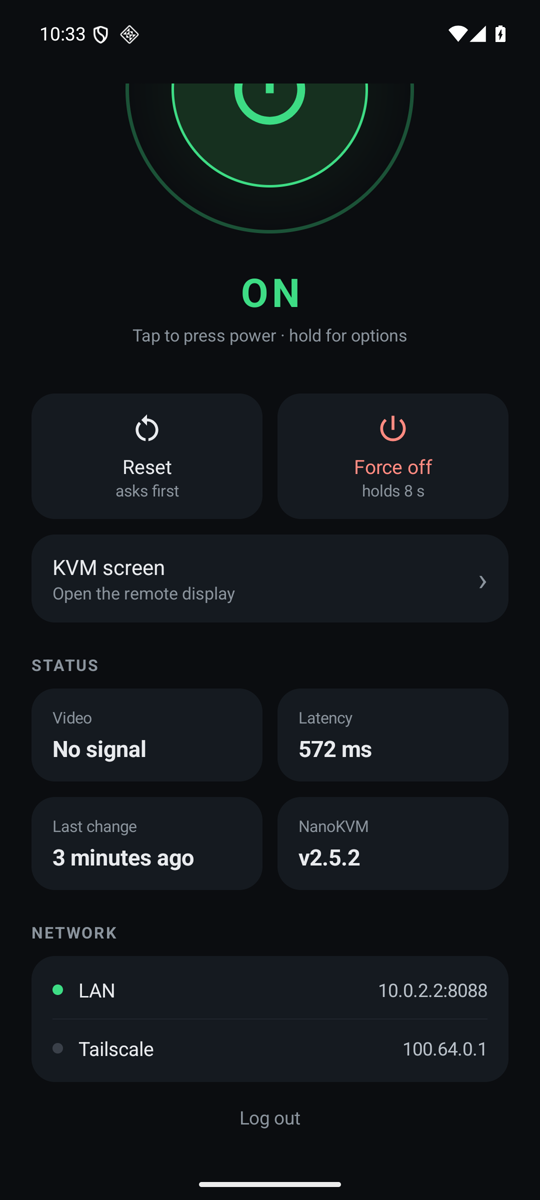
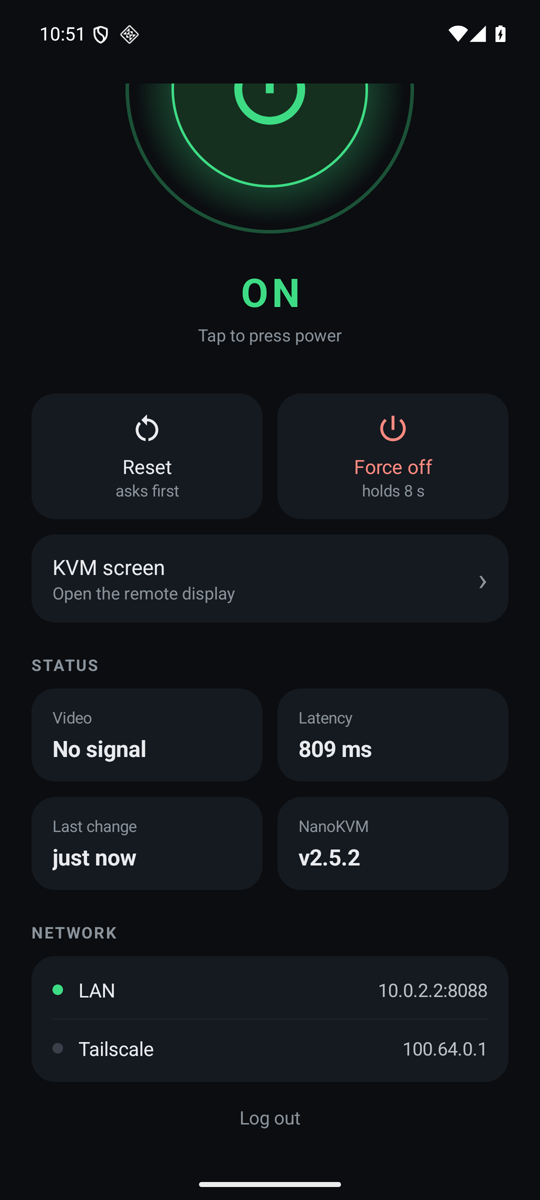
README: current screenshots, pulse demo, animations, install and build notes

diff --git a/README.md b/README.md
@@ -4,27 +4,33 @@ Control a PC through its [Sipeed NanoKVM](https://github.com/sipeed/NanoKVM) fro
 remotely over Tailscale: see whether it's on, press power or reset, force it off, and open the KVM screen.
 
 <p>
+<img src="docs/screenshots/pulse.gif" width="260" alt="Power button pulsing while the PC is on">
 <img src="docs/screenshots/phone.png" width="260" alt="Main screen">
 <img src="docs/screenshots/phone-info.png" width="260" alt="Status and network">
-<img src="docs/screenshots/widgets.png" width="260" alt="Widgets">
 </p>
+<img src="docs/screenshots/widgets.png" width="260" alt="Widgets">
 <img src="docs/screenshots/tablet.png" width="800" alt="Tablet layout">
 
 ## Features
-- **Power:** the button breathes green while the PC is on; tap it for a short power press (also wakes the PC); Reset and Force off have their own buttons.
-  Reset and Force off (8 s hold) ask first.
+- **Power:** tap the big button for a short power press, which also wakes the PC. It glows and pulses green while
+  the PC is on. Reset and Force off (an 8 s hold) have their own buttons and ask first.
 - **Status:** on/off from the power LED, HDMI signal, latency, last state change, NanoKVM version.
 - **Finds the NanoKVM itself:** scans your Wi-Fi for it on first launch, and learns its Tailscale address after
   login. When the LAN address stops answering it falls back to Tailscale, and rescans if the address changed.
-- **KVM screen:** the NanoKVM web UI, already logged in. On tablets it sits next to the controls.
-- **Widgets:** 1x1 power, 2x1 status + power, 4x1 status + power + reset + screen.
+- **KVM screen:** the NanoKVM web UI, already logged in.
+- **Widgets:** 1x1 power, 2x1 status + power, 4x1 status + power + reset + screen. Tap the text to refresh.
+- **Tablet layout:** controls on the left, the KVM screen on the right.
+- **Animations:** state changes, press feedback and screen entrances; they follow Android's animation settings.
 
 Requires Android 12+ and a NanoKVM running app 2.5 or later (multi-user API). Tested with the NanoKVM PCIe.
 Wake from off needs the NanoKVM to stay powered while the PC is off (the PCIe version does).
 
 ## Install
 With [Obtainium](https://github.com/ImranR98/Obtainium): **Add app** → `https://github.com/7tg/nanokvm-android`.
-Or download the APK from [Releases](https://github.com/7tg/nanokvm-android/releases).
+It picks up new releases automatically. Or download the APK from [Releases](https://github.com/7tg/nanokvm-android/releases).
+
+On first launch the app searches your Wi-Fi for the NanoKVM and fills in its address; enter it yourself (LAN IP or
+Tailscale name) if it isn't found. Then log in with a NanoKVM account.
 
 ## Security
 NanoKVM has no API keys, only username/password login with a session cookie. The app stores the password
@@ -41,13 +47,16 @@ It talks plain HTTP to the NanoKVM like the web UI does; use it on your LAN or o
 ```
 JAVA_HOME=/path/to/jdk-21 ./gradlew assembleDebug
 ```
-Without `keystore.properties`, release builds are signed with the debug key.
+Release builds (`assembleRelease`) are minified and signed with the key from `keystore.properties`; without that file
+they use the debug key. The app has no dependencies: framework Views, `HttpURLConnection` and a WebView.
 
 ## Development
 No hardware needed: `python3 tools/mock_nanokvm.py` (needs `cryptography`) runs a fake NanoKVM on port 8088
 with a PC that turns on and off. In the emulator, log in to `10.0.2.2:8088` as `admin` / `admin`.
-Wi-Fi discovery can't see the mock, so test that on a real device.
+Wi-Fi discovery can't see the mock, so test that on a real device. Tablet layout on a phone emulator:
+`adb shell wm size 2560x1600 && adb shell wm density 320`.
 
 ## Releases
 Pushing a `v*` tag makes GitHub Actions build a signed APK and attach it to a GitHub release
-(`versionName` = tag without `v`). Secrets: `KEYSTORE_BASE64`, `KEYSTORE_PASSWORD`, `KEY_ALIAS`.
+(`versionName` = tag without `v`, `versionCode` = run number). Other pushes build a debug APK as a workflow artifact.
+Secrets: `KEYSTORE_BASE64`, `KEYSTORE_PASSWORD`, `KEY_ALIAS`.
